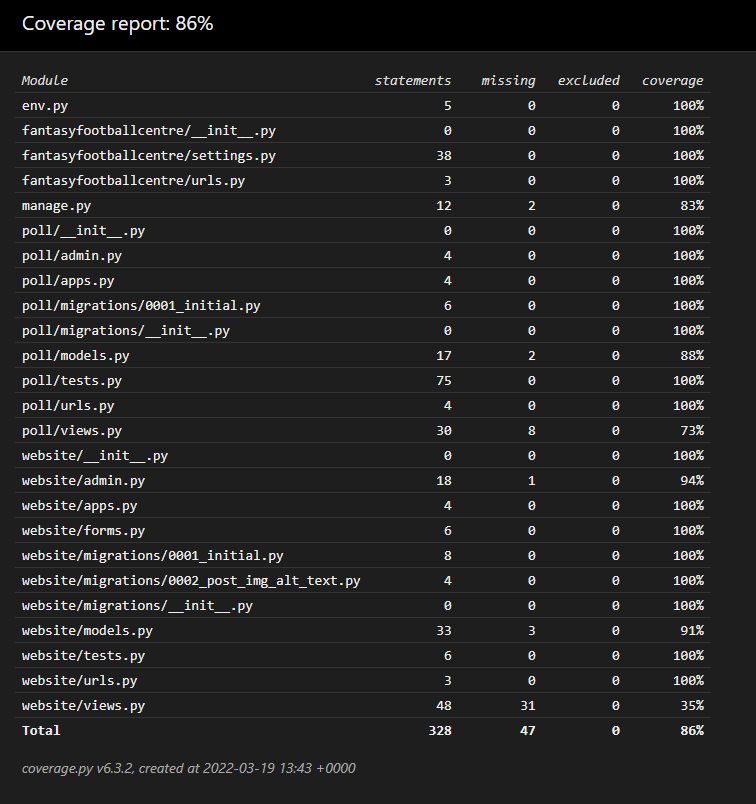
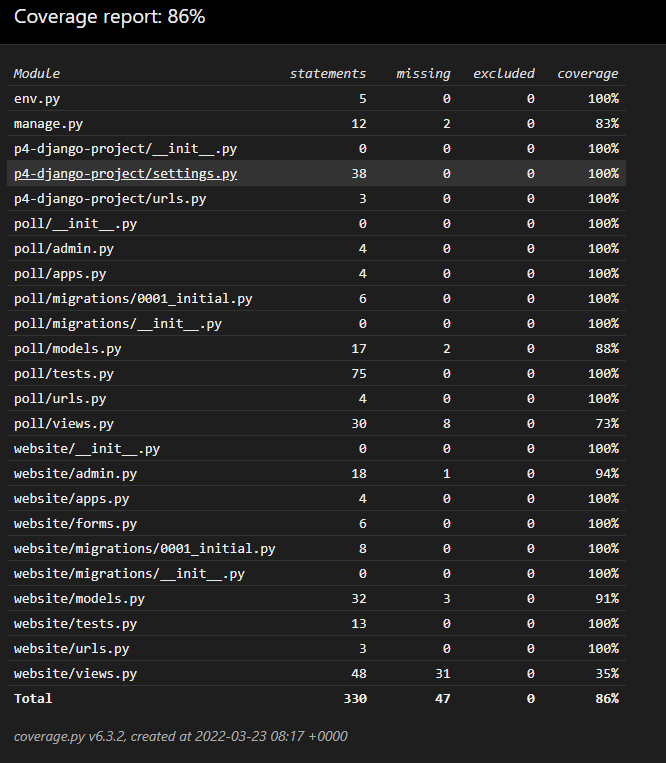
Update testing and coverage reports post-model renames

diff --git a/website/tests.py b/website/tests.py
@@ -1,7 +1,7 @@
 from django.test import TestCase
 from .models import Comment
 from django.contrib.auth.models import User
-from .models import Post
+from .models import Article
 # Create your tests here.
 
 
@@ -12,8 +12,8 @@ class TestViews(TestCase):
         self.assertEqual(response.status_code, 200)
         self.assertTemplateUsed(response, 'landing_page.html')
 
-    def test_view_post_list(self):
-        response = self.client.get('/post-list/')
+    def test_view_article_list(self):
+        response = self.client.get('/article-list/')
         self.assertEqual(response.status_code, 200)
         self.assertTemplateUsed(response, 'index.html')
 

diff --git a/p4-django-project/settings.py b/p4-django-project/settings.py
@@ -111,16 +111,16 @@ WSGI_APPLICATION = 'p4-django-project.wsgi.application'
 # Database
 # https://docs.djangoproject.com/en/3.2/ref/settings/#databases
 
-# DATABASES = {
-#     'default': {
-#         'ENGINE': 'django.db.backends.sqlite3',
-#         'NAME': BASE_DIR / 'db.sqlite3',
-#     }
-# }
-
 DATABASES = {
-    'default': dj_database_url.parse(os.environ.get("DATABASE_URL"))
+    'default': {
+        'ENGINE': 'django.db.backends.sqlite3',
+        'NAME': BASE_DIR / 'db.sqlite3',
+    }
 }
+
+# DATABASES = {
+#     'default': dj_database_url.parse(os.environ.get("DATABASE_URL"))
+# }
 
 
 # Password validation
